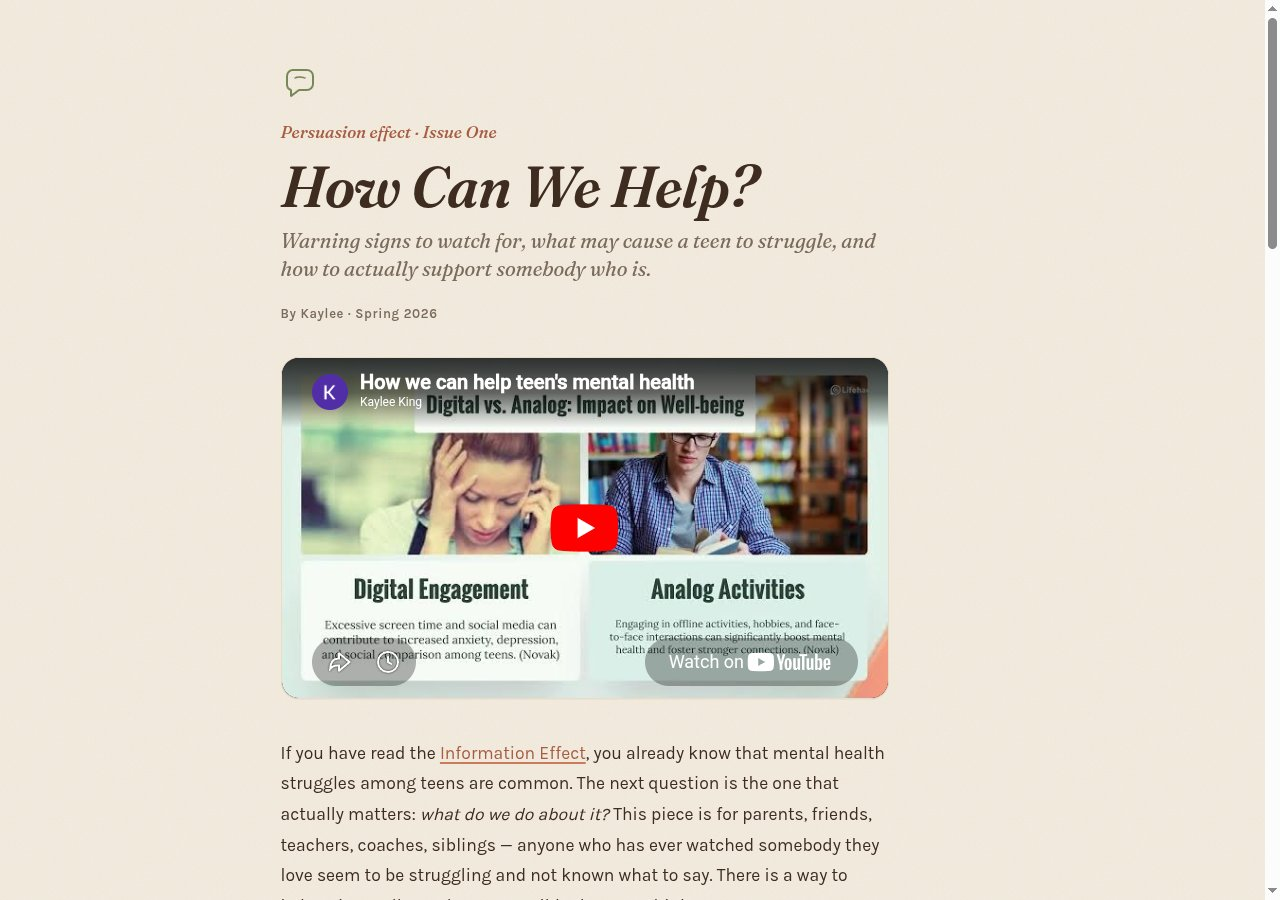
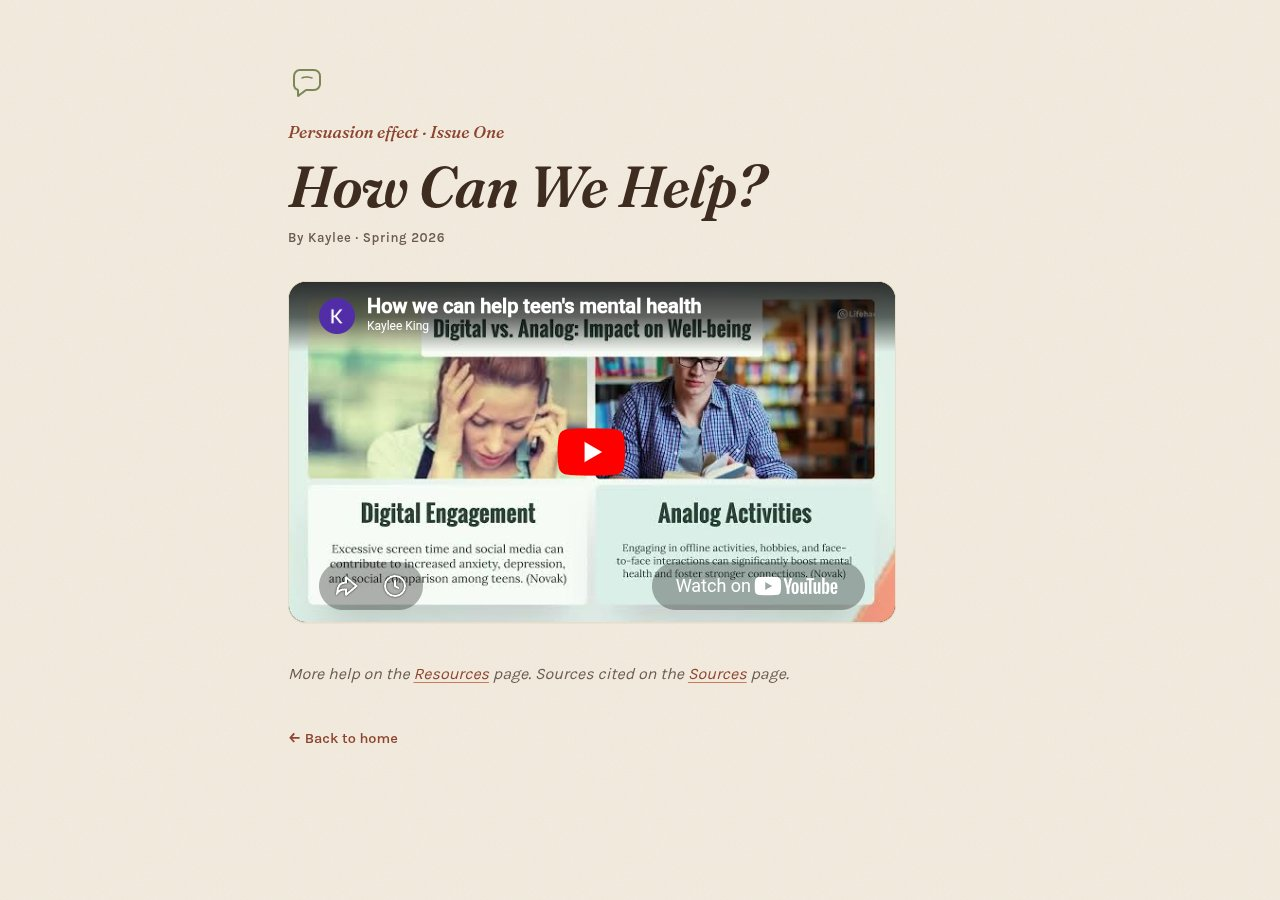
Persuasion Effect: remove fabricated body text
The original site had no transcribable body for this section
(content lived in a video). Keep title, byline, and the embedded
YouTube; drop the made-up warning-signs / causes / how-to-help
content I had filled in earlier. Small next-link line replaces it.

diff --git a/persuasion-effect.html b/persuasion-effect.html
@@ -81,7 +81,6 @@
 
         <p class="eyebrow">Persuasion effect &middot; Issue One</p>
         <h1 class="article__title">How Can We Help?</h1>
-        <p class="article__sub">Warning signs to watch for, what may cause a teen to struggle, and how to actually support somebody who is.</p>
         <p class="article__byline">By Kaylee &middot; Spring 2026</p>
 
         <div class="video-embed">
@@ -94,55 +93,9 @@
             allowfullscreen></iframe>
         </div>
 
-        <div class="article__body">
-          <p>If you have read the <a href="information-effect.html">Information Effect</a>, you already know that mental health struggles among teens are common. The next question is the one that actually matters: <em>what do we do about it?</em> This piece is for parents, friends, teachers, coaches, siblings &mdash; anyone who has ever watched somebody they love seem to be struggling and not known what to say. There is a way to help. It is smaller and more possible than you think.</p>
-
-          <h2>Warning signs to watch for</h2>
-          <p>According to Mayo Clinic and Psychiatry.org, the warning signs of a mental health condition in teens are not always dramatic. They show up most often as quiet changes in someone&rsquo;s usual behavior. The most common ones include:</p>
-          <ul>
-            <li>Pulling away from friends, family, or activities they used to love</li>
-            <li>Big changes in sleep &mdash; sleeping much more or much less than usual</li>
-            <li>Big changes in eating &mdash; appetite loss or eating much more</li>
-            <li>Persistent sadness, irritability, or low mood that lasts more than a couple weeks</li>
-            <li>Trouble concentrating, a sudden drop in grades, or losing interest in school</li>
-            <li>Talking about feeling hopeless, worthless, or like a burden</li>
-            <li>Increased anxiety, panic, or constant worry</li>
-            <li>Talking about death or self-harm &mdash; even &ldquo;jokingly&rdquo;</li>
-          </ul>
-          <p>One sign on its own does not mean a teen is in crisis. But several of these together, especially if they last for more than a couple weeks, are worth paying attention to.</p>
-
-          <h2>What may cause a teen to struggle</h2>
-          <p>There is rarely one single cause. Most of the time it is a combination of factors that build up over time:</p>
-          <ul>
-            <li><strong>Biological:</strong> family history, brain chemistry, hormonal changes during puberty</li>
-            <li><strong>Environmental:</strong> bullying, family conflict, unsafe homes, financial stress, the loss of someone close</li>
-            <li><strong>Social:</strong> isolation, social media pressure, comparison, online harassment</li>
-            <li><strong>Academic:</strong> overload, perfectionism, college pressure, being the &ldquo;strong one&rdquo;</li>
-            <li><strong>Identity:</strong> figuring out who you are while everyone seems to be watching</li>
-          </ul>
-
-          <div class="pullquote">
-            <svg class="pullquote__mark" viewBox="0 0 38 38" aria-hidden="true">
-              <path d="M10 22 q -2 -10 8 -14 l 2 4 q -6 2 -4 8 h 4 v 8 h -10 z M22 22 q -2 -10 8 -14 l 2 4 q -6 2 -4 8 h 4 v 8 h -10 z" fill="currentColor"/>
-            </svg>
-            <p>You don&rsquo;t have to fix anything. You have to be present. That is most of the work.</p>
-          </div>
-
-          <h2>How you can actually help</h2>
-          <p>The most important thing I learned in my research is that you do not need to be a therapist to help a teen who is struggling. You need to be willing to listen. Here is what that actually looks like:</p>
-          <ul>
-            <li><strong>Notice and reach out.</strong> If something feels off, say so. <em>&ldquo;Hey, I&rsquo;ve noticed you&rsquo;ve seemed quieter lately. Are you okay?&rdquo;</em> is enough.</li>
-            <li><strong>Listen without trying to fix.</strong> Most teens who open up are not asking for advice. They are asking to be heard. Resist the urge to jump to solutions.</li>
-            <li><strong>Take it seriously.</strong> Don&rsquo;t minimize. Don&rsquo;t say &ldquo;everyone feels that way sometimes.&rdquo; Believe them the first time.</li>
-            <li><strong>Stay calm.</strong> If a teen tells you they are struggling, your reaction will tell them whether to keep being honest. Calm is the right response.</li>
-            <li><strong>Help them connect with support.</strong> A school counselor, a therapist, a parent, a doctor, a crisis line. Offer to go with them, sit with them while they call, or look up resources together.</li>
-            <li><strong>Keep showing up.</strong> One conversation is rarely enough. Check in again next week. And the week after that.</li>
-          </ul>
-
-          <p>If you are reading this and you are the one struggling: please know that you are not a burden. The people in your life who love you would rather be in a hard conversation with you than miss it. And if there is no one safe to talk to right now, the <a href="tel:988">988 Suicide &amp; Crisis Lifeline</a> is free, confidential, and available 24/7. You can call or text. You don&rsquo;t need a reason that sounds big enough.</p>
-
-          <p>You can find more help on the <a href="resources.html">Resources page</a>.</p>
-        </div>
+        <p class="article__nextlink">
+          More help on the <a href="resources.html">Resources</a> page. Sources cited on the <a href="sources.html">Sources</a> page.
+        </p>
 
         <a class="back-link" href="index.html">&larr; Back to home</a>
       </article>
